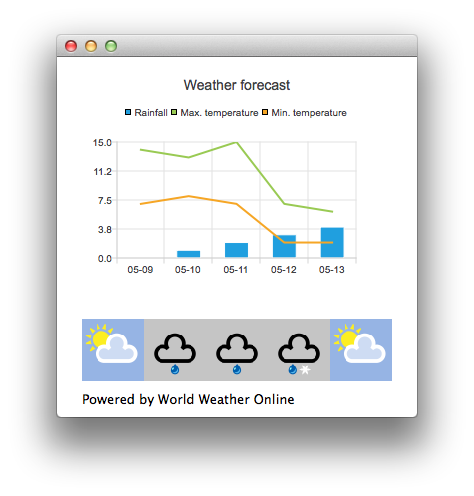
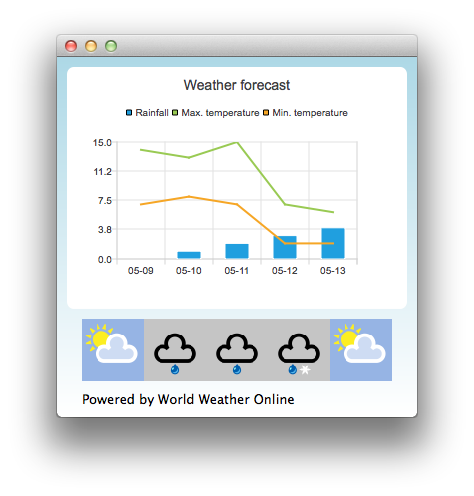
Fancy background to QML Weather demo

diff --git a/demos/qmlweather/qml/qmlweather/main.qml b/demos/qmlweather/qml/qmlweather/main.qml
@@ -24,6 +24,10 @@ import QtCommercial.Chart 1.1
 Rectangle {
     width: 360
     height: 360
+    gradient: Gradient {
+        GradientStop { position: 0.0; color: "lightblue" }
+        GradientStop { position: 1.0; color: "white" }
+    }
 
     //![1]
     ChartView {
@@ -157,7 +161,10 @@ Rectangle {
             //![4]
 
             //![5]
-            // Store temperature values, rainfall and weather icon
+            // Store temperature values, rainfall and weather icon.
+            // The temperature values begin from 0.5 instead of 0.0 to make the start from the
+            // middle of the rainfall bars. This makes the temperature lines visually better
+            // synchronized with the rainfall bars.
             maxTempSeries.append(Number(i) + 0.5, weatherObj.tempMaxC);
             minTempSeries.append(Number(i) + 0.5, weatherObj.tempMinC);
             rainfallSet.append(i, weatherObj.precipMM);
